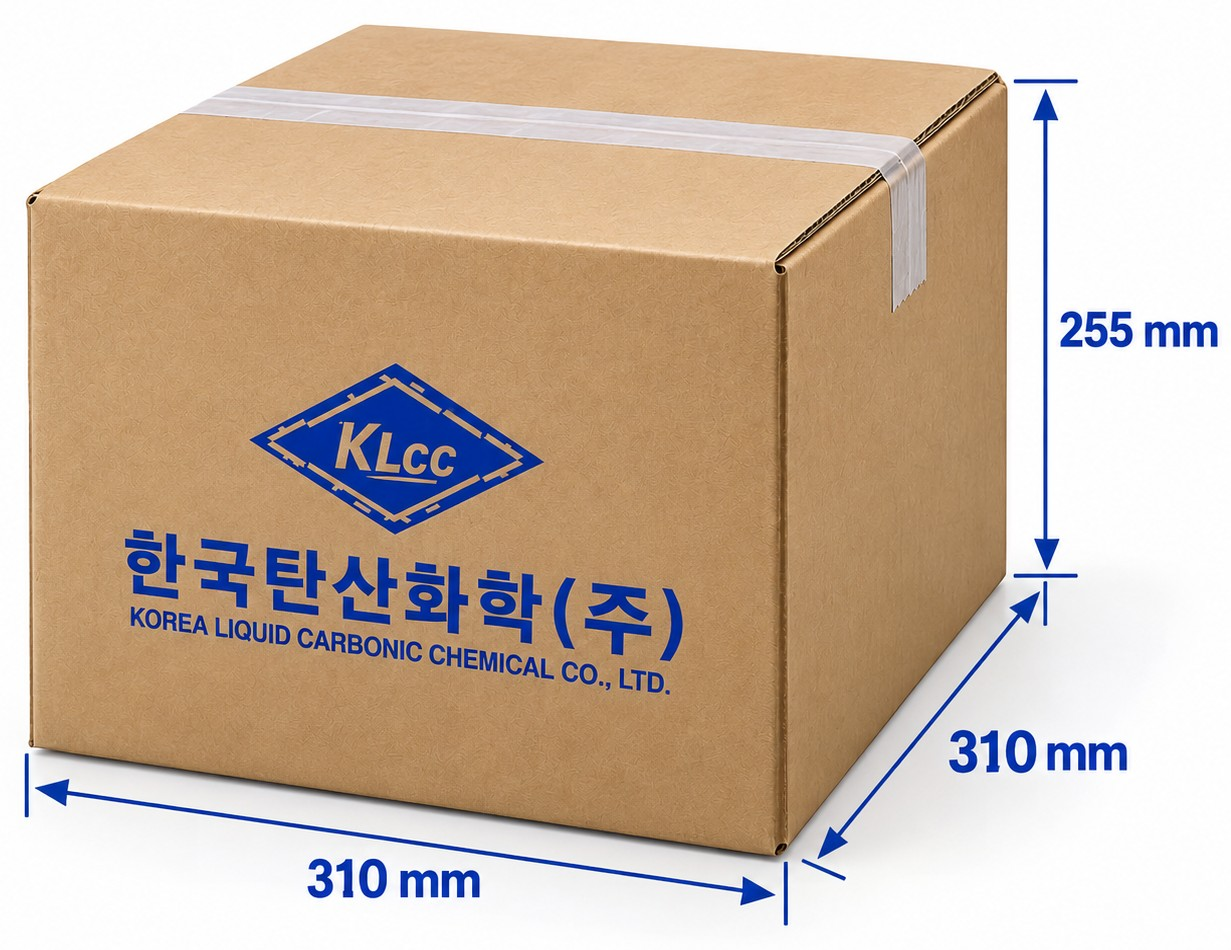
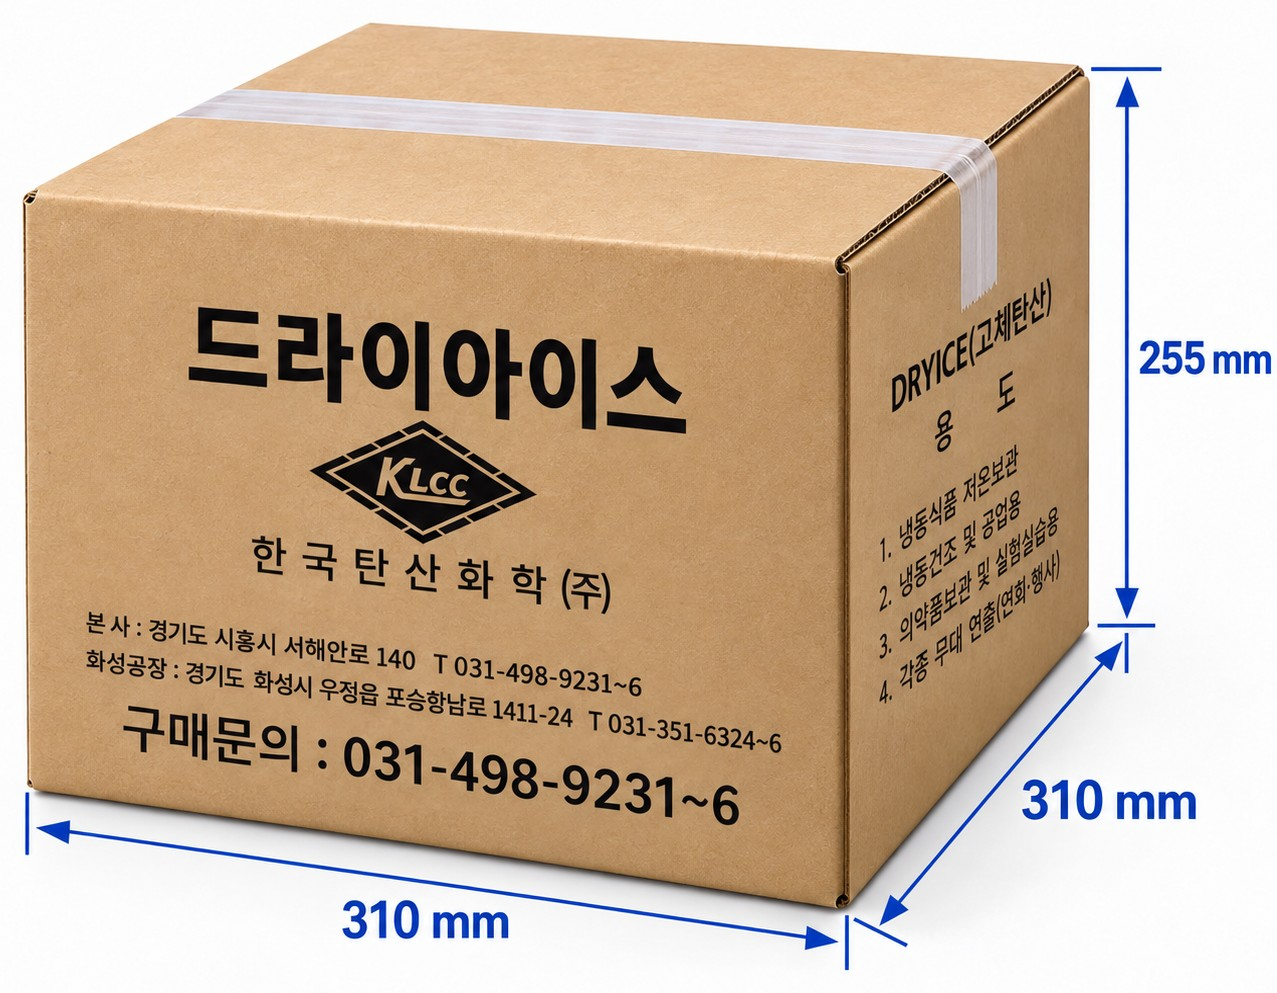
드라이아이스 포장 상세정보 박스 규격 사진을 새 드라이아이스 박스 이미지로 교체(310×310×255, 용도 표기 포함). ice-box-dim ?v=20260911b

diff --git a/products-ice.html b/products-ice.html
@@ -350,7 +350,7 @@
                         <div class="pkgdetail__val">개별포장 + 종이박스 + 외부 비닐 포장</div>
                       </li>
                     </ul>
-                    <figure class="pkgspec__dim pkgspec__dim--in"><img src="assets/images/site/ice-box-dim.jpg?v=20260911c" alt="48P 박스 규격 310×310×255mm" loading="lazy"><figcaption class="pkgspec__dimcap">※ 박스 규격 : 310 × 310 × 255 mm</figcaption></figure>
+                    <figure class="pkgspec__dim pkgspec__dim--in"><img src="assets/images/site/ice-box-dim.jpg?v=20260911bc" alt="48P 박스 규격 310×310×255mm" loading="lazy"><figcaption class="pkgspec__dimcap">※ 박스 규격 : 310 × 310 × 255 mm</figcaption></figure>
                     </div>
                   </div>
                 </div>
